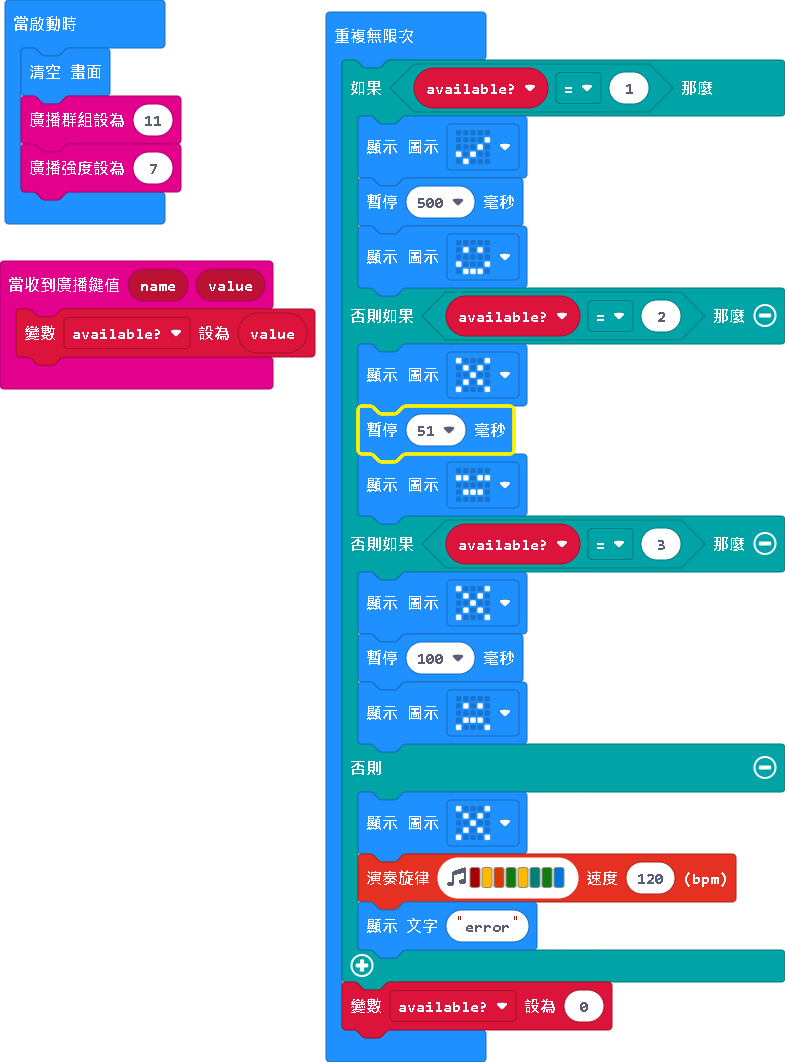
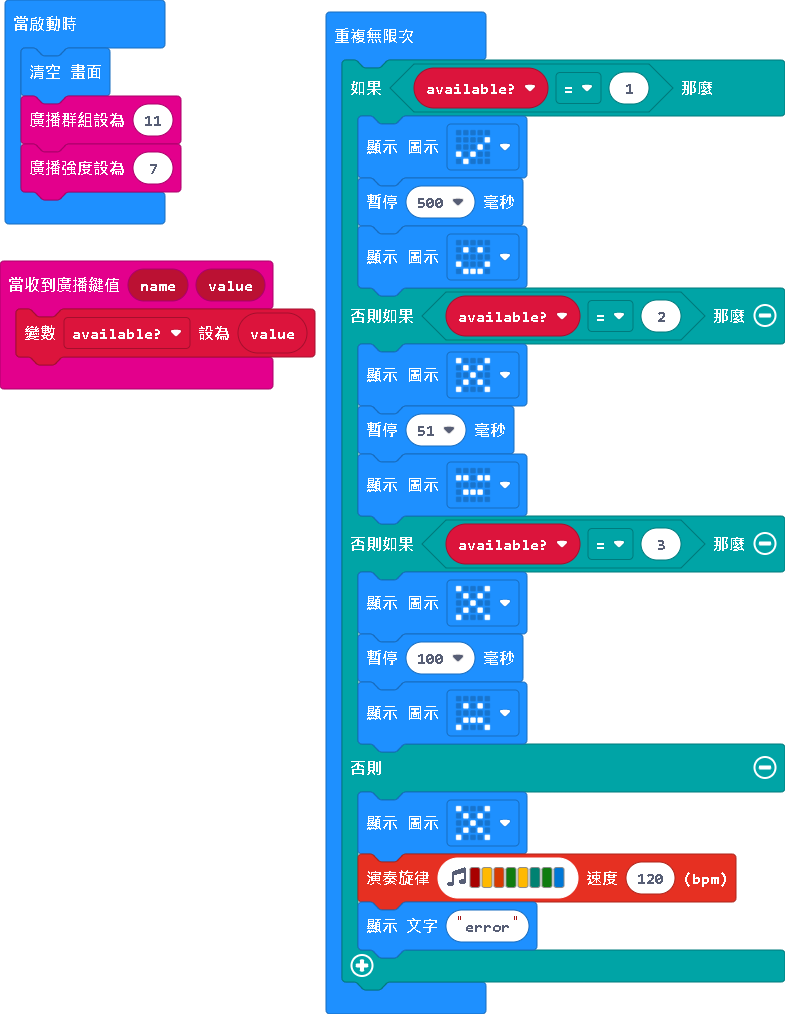
更新 main.blocks, main.ts

Changed region(s): [[0.428, 0.0, 1.0, 0.9783], [0.0, 0.0, 0.3975, 0.3974]]

diff --git a/main.ts b/main.ts
@@ -23,5 +23,4 @@ basic.forever(function () {
         music.playMelody("C5 A B G A F G E ", 120)
         basic.showString("error")
     }
-    available = 0
 })
